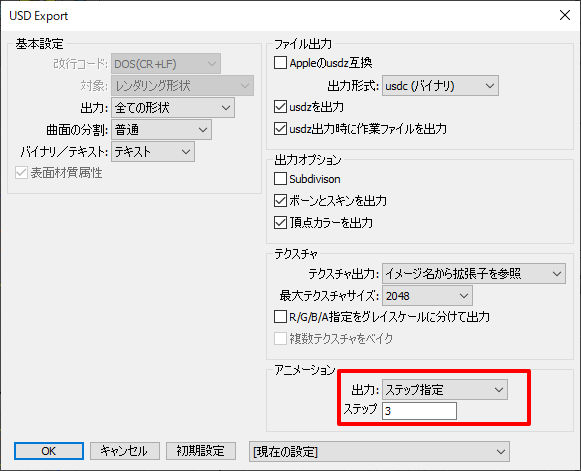
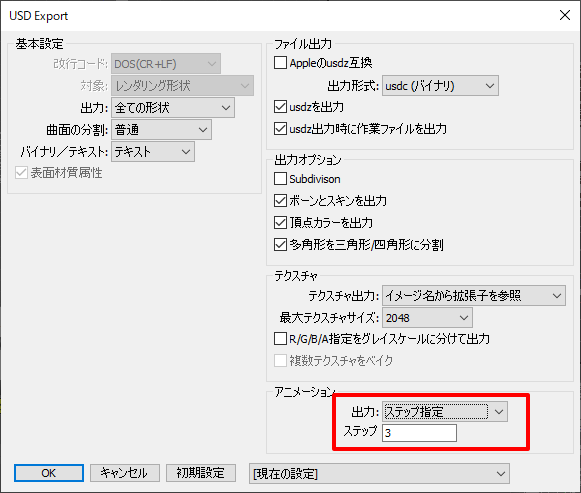
ver.0.0.1.3
[ 更新履歴 ]

* Added : 「多角形を三角形/四角形に分割」エクスポートオプションを追加
* Added : USDファイルに、"USD Exporter for Shade3D (version)"のテキストを出力 (バージョンによるチェック用)

diff --git a/projects/USDExporter/source/GlobalHeader.h b/projects/USDExporter/source/GlobalHeader.h
@@ -20,7 +20,7 @@
 #define USD_SHADE3D_PLUGIN_MAJOR_VERSION 0
 #define USD_SHADE3D_PLUGIN_MINOR_VERSION 0
 #define USD_SHADE3D_PLUGIN_MICRO_VERSION 1
-#define USD_SHADE3D_PLUGIN_BUILD_NUMBER  2
+#define USD_SHADE3D_PLUGIN_BUILD_NUMBER  3
 
 /**
  * streamに保存する際のバージョン.

diff --git a/projects/USDExporter/source/USDData.h b/projects/USDExporter/source/USDData.h
@@ -1,4 +1,4 @@
-/**
+/**
  * USD格納時に使用する情報.
  * これは、Shade3DやUSDに依存しない情報.
  */

diff --git a/projects/USDExporter/source/USDData.cpp b/projects/USDExporter/source/USDData.cpp
@@ -1,4 +1,4 @@
-/**
+/**
  * USD格納時に使用する情報.
  */
 #include "USDData.h"
